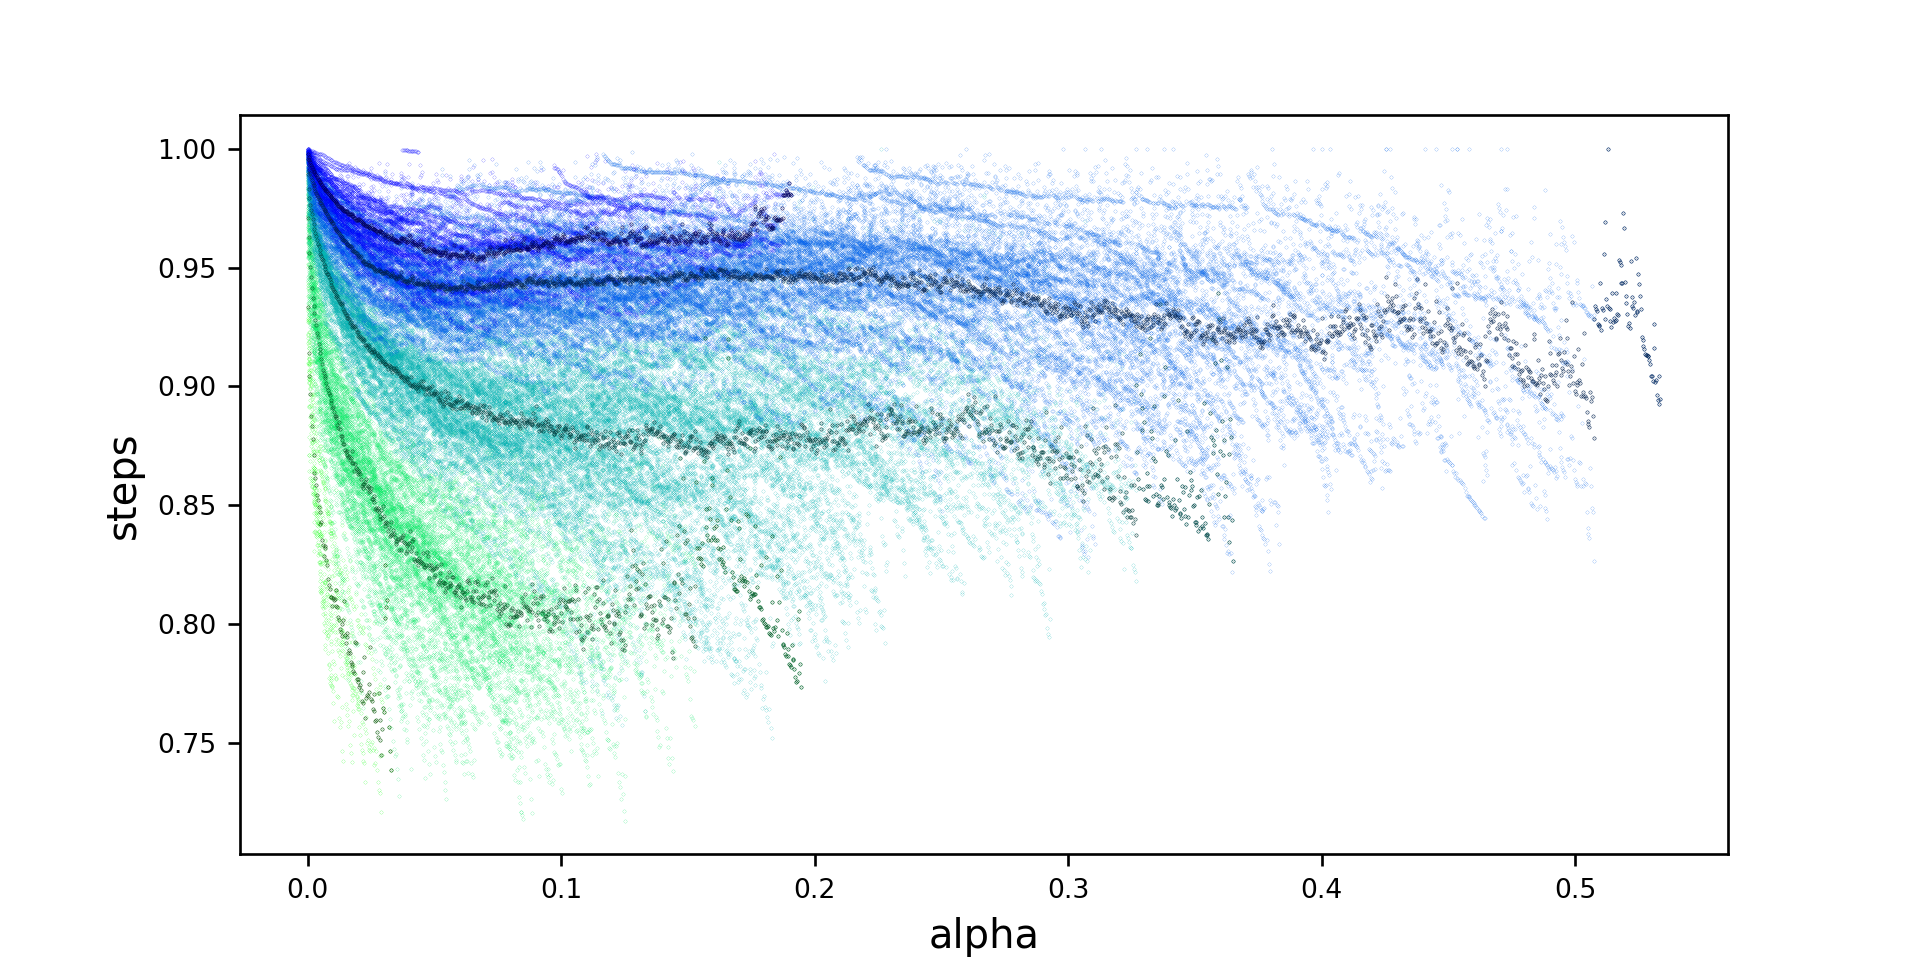
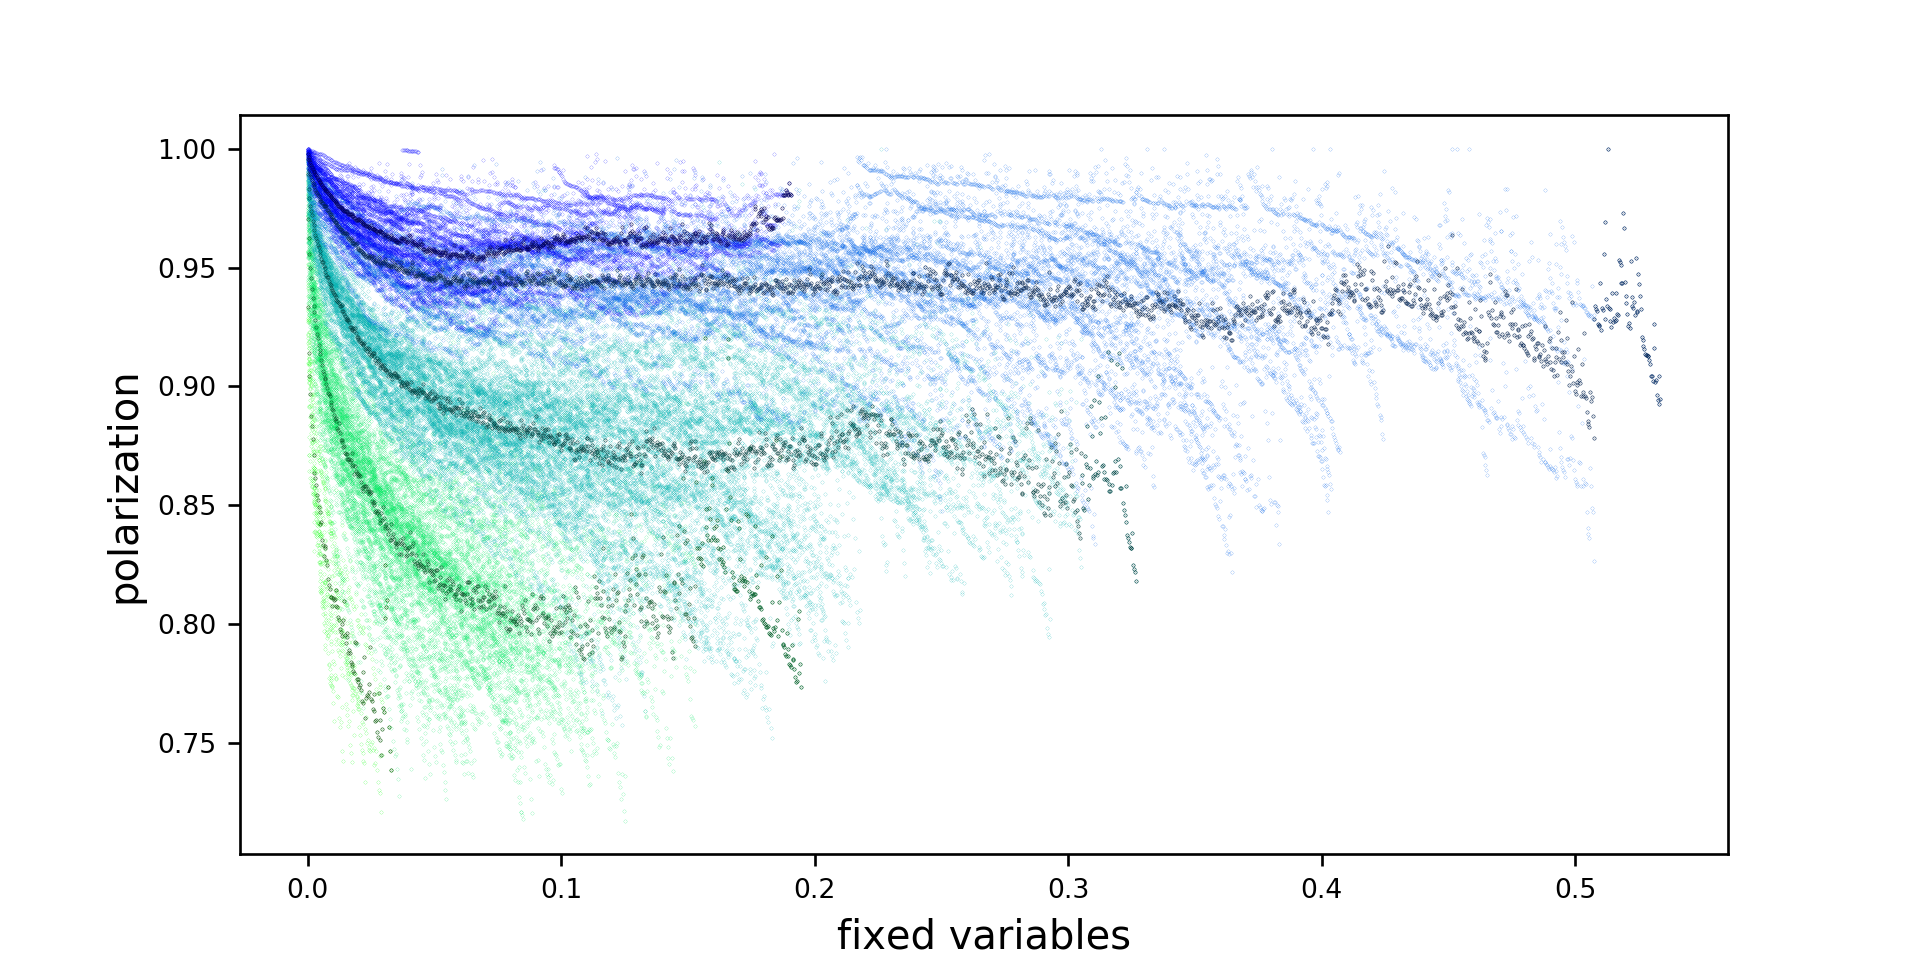
update plots

Changed region(s): [[0.1562, 0.1562, 0.8125, 0.6875], [0.4375, 0.9375, 0.5938, 1.0], [0.0625, 0.4062, 0.0938, 0.625]]

diff --git a/plot/plot_survey_phase_post.py b/plot/plot_survey_phase_post.py
@@ -20,30 +20,25 @@ def set_settings(ylabel, xlabel):
   plt.ylabel(ylabel)
   plt.xlabel(xlabel)
 
-N_values = [100, 300, 1000, 3000]
-
-N = N_values[3]
-
-M_min = 0
-M_max = N*5
+N = 3000
 
 series_count = 0
-for M in range(M_min, M_max + N/10, N/10):
+for M in range(12240, 12900, 60):
   try:
-    avg_sigma = np.load('plot/survey_pre/survey_{}_avg_sigma.npy'.format(M))
+    avg_sigma = np.load('plot/phase_pre/phase_{}_avg_sigma.npy'.format(M))
     series_count += 1
   except Exception, e:
     continue
 
 series_count -= 1
 
-RAINBOW=True
+RAINBOW=False
 
 # lines per M, all together
 set_settings('sigma (nats)', 'fixed variables')
 if RAINBOW:
   color_counter = 0
-  for M in range(M_min, M_max + N/10, N/10):
+  for M in range(12240, 12900, 60):
     if series_count != 0:
       color_ratio = float(color_counter) / series_count
     else:
@@ -51,7 +46,7 @@ if RAINBOW:
     cur_color_sample = (0., math.cos(color_ratio * math.pi/2), math.sin(color_ratio * math.pi/2))
 
     try:
-      step_sigma = np.load('plot/survey_pre/survey_{}_step_sigma.npy'.format(M))
+      step_sigma = np.load('plot/phase_pre/phase_{}_step_sigma.npy'.format(M))
       color_counter += 1
     except Exception, e:
       continue
@@ -69,7 +64,7 @@ if RAINBOW:
     plt.scatter(np.array(points_x), np.array(points_y), c=cur_color_sample, marker='.', s=0.01)
 
 color_counter = 0
-for M in range(M_min, M_max + N/10, N/10):
+for M in range(12240, 12900, 60):
   if series_count != 0:
     color_ratio = float(color_counter) / series_count
   else:
@@ -81,7 +76,7 @@ for M in range(M_min, M_max + N/10, N/10):
     cur_color_avg = (0., math.cos(color_ratio * math.pi/2), math.sin(color_ratio * math.pi/2))
 
   try:
-    avg_sigma = np.load('plot/survey_pre/survey_{}_avg_sigma.npy'.format(M))
+    avg_sigma = np.load('plot/phase_pre/phase_{}_avg_sigma.npy'.format(M))
     color_counter += 1
   except Exception, e:
     continue
@@ -92,15 +87,16 @@ for M in range(M_min, M_max + N/10, N/10):
   plt.scatter(np.linspace(0, float(size - 1) / N, size), avg_sigma, c=cur_color_avg, marker='.', s=0.1)
 
 if RAINBOW:
-  plt.savefig('plot/survey_avg_sigma_rainbow.png')
+  plt.savefig('plot/phase_avg_sigma_rainbow.png')
 else:
-  plt.savefig('plot/survey_avg_sigma.png')
+  plt.savefig('plot/phase_avg_sigma.png')
 plt.show()
 
 set_settings('polarization', 'fixed variables')
+plt.ylim(bottom=0.75)
 if RAINBOW:
   color_counter = 0
-  for M in range(M_min, M_max*5 + N/10, N/10):
+  for M in range(12240, 12900, 60):
     if series_count != 0:
       color_ratio = float(color_counter) / series_count
     else:
@@ -108,7 +104,7 @@ if RAINBOW:
     cur_color_sample = (0., math.cos(color_ratio * math.pi/2), math.sin(color_ratio * math.pi/2))
 
     try:
-      step_polar= np.load('plot/survey_pre/survey_{}_step_polar.npy'.format(M))
+      step_polar= np.load('plot/phase_pre/phase_{}_step_polar.npy'.format(M))
       color_counter += 1
     except Exception, e:
       continue
@@ -126,7 +122,7 @@ if RAINBOW:
     plt.scatter(np.array(points_x), np.array(points_y), c=cur_color_sample, marker='.', s=0.01)
 
 color_counter = 0
-for M in range(M_min, M_max*5 + N/10, N/10):
+for M in range(12240, 12900, 60):
   if series_count != 0:
     color_ratio = float(color_counter) / series_count
   else:
@@ -138,7 +134,7 @@ for M in range(M_min, M_max*5 + N/10, N/10):
     cur_color_avg = (0., math.cos(color_ratio * math.pi/2), math.sin(color_ratio * math.pi/2))
 
   try:
-    avg_polar = np.load('plot/survey_pre/survey_{}_avg_polar.npy'.format(M))
+    avg_polar = np.load('plot/phase_pre/phase_{}_avg_polar.npy'.format(M))
     color_counter += 1
   except Exception, e:
     continue
@@ -149,8 +145,8 @@ for M in range(M_min, M_max*5 + N/10, N/10):
   plt.scatter(np.linspace(0, float(size - 1) / N, size), avg_polar, c=cur_color_avg, marker='.', s=0.1)
 
 if RAINBOW:
-  plt.savefig('plot/survey_avg_polar_rainbow.png')
+  plt.savefig('plot/phase_avg_polar_rainbow.png')
 else:
-  plt.savefig('plot/survey_avg_polar.png')
+  plt.savefig('plot/phase_avg_polar.png')
 plt.show()
 

diff --git a/plot/plot_survey_phase_pre.py b/plot/plot_survey_phase_pre.py
@@ -6,27 +6,16 @@ import re
 import subprocess
 import sys
 
-N_values = [100, 300, 1000, 3000]
-
-def folder_from_N(N):
-  if N != 3000:
-    return 'data/survey_n100_N{}_M{}_SS1000_SW{}_p30'.format(N, N*5, N*100)
-  else:
-    return 'data/survey_n50_N{}_M{}_SS1000_SW{}_p30'.format(N, N*5, N*100)
-
 # step-finder regex
 p_sigma = re.compile('survey: [0-9]* steps sigma/N ([+-.0-9e]*)')
 p_polar = re.compile('survey: selected .*, pol ([+-.0-9e]*),.*')
 devnull = open('/dev/null', 'w')
 
 # only plot for 1k for now
-N = N_values[3]
-d = folder_from_N(N)
+N = 3000
+d = 'data/survey_phase_n50_N3000_SS1000_SW300000_p30'
 
-# TODO sorting
-M_min = 0
-M_max = N*5
-for M in range(M_min, M_max + N/10, N/10):
+for M in range(12240, 12900, 60):
   # two lists of lists: first layer is by run, second is by step
   out_sigma = []  # instance complexity at each step
   out_polar = []  # polarization of last fixed var at each step
@@ -37,7 +26,7 @@ for M in range(M_min, M_max + N/10, N/10):
 
     this_sigma = []
     this_polar = []
-    if subprocess.call(['grep', 'survey: sat', fn], stdout=devnull, stderr=devnull) == 0:
+    if True or subprocess.call(['grep', 'survey: sat', fn], stdout=devnull, stderr=devnull) == 0:
       for l in open(fn):
         sig = p_sigma.findall(l)
         if sig:
@@ -82,8 +71,8 @@ for M in range(M_min, M_max + N/10, N/10):
     avg_sigma = np.array(avg_sigma)
     avg_polar = np.array(avg_polar)
 
-    np.save('plot/survey_pre/survey_{}_step_sigma'.format(M), step_sigma)
-    np.save('plot/survey_pre/survey_{}_step_polar'.format(M), step_polar)
-    np.save('plot/survey_pre/survey_{}_avg_sigma'.format(M), avg_sigma)
-    np.save('plot/survey_pre/survey_{}_avg_polar'.format(M), avg_polar)
+    np.save('plot/phase_pre/phase_{}_step_sigma'.format(M), step_sigma)
+    np.save('plot/phase_pre/phase_{}_step_polar'.format(M), step_polar)
+    np.save('plot/phase_pre/phase_{}_avg_sigma'.format(M), avg_sigma)
+    np.save('plot/phase_pre/phase_{}_avg_polar'.format(M), avg_polar)
 

diff --git a/plot/plot_survey_sat.py b/plot/plot_survey_sat.py
@@ -43,8 +43,8 @@ for i in range(len(N_values)):
     out_reader = csv.DictReader(out_f, delimiter=' ')
     for row in out_reader:
       out_a += [float(row['M']) / N]
-      out_sat += [float(row['sat']) / 100]
-      out_unk += [float(row['unknown']) / 100]
+      out_sat += [float(row['sat']) / (100 if i != 3 else 50)]
+      out_unk += [float(row['unknown']) / (100 if i != 3 else 50)]
 
   out_a = np.array(out_a)
   out_sat = np.array(out_sat)
@@ -54,7 +54,7 @@ for i in range(len(N_values)):
   # plot with some color
   # plt.plot arguments: x-values, y-values, color, width
   plt.plot(out_a, out_sat, color=cur_color_sat, linewidth=1)
-  plt.plot(out_a, out_unk, color=cur_color_unk, linewidth=1)
+  #plt.plot(out_a, out_unk, color=cur_color_unk, linewidth=1)
 
 plt.savefig('plot/survey_sat_unk.png')
 plt.show()
